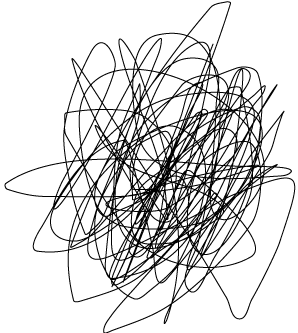
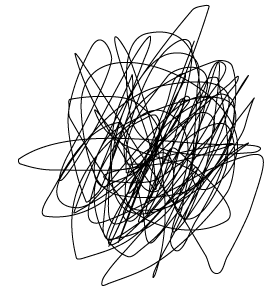
title page touchup

diff --git a/content/media/css/chapters/frontmatter.css b/content/media/css/chapters/frontmatter.css
@@ -79,7 +79,7 @@
   #titlepage .novel-title .wrap:after { content: ""; display: table; clear: both; } }
 @media (min-width: 960px) { #titlepage .novel-title .wrap { *zoom: 1; margin: auto; width: 38.5em; max-width: 100%; }
   #titlepage .novel-title .wrap:after { content: ""; display: table; clear: both; } }
-#titlepage .novel-title span { display: block; }
+#titlepage .novel-title span { -moz-transition: all 300ms; -webkit-transition: all 300ms; -o-transition: all 300ms; transition: all 300ms; display: block; }
 #titlepage .into { font-size: 1.25em; line-height: 1em; display: inline; float: left; margin-left: 7.317%; padding-left: 29.268%; margin-right: 0.2em; }
 #titlepage .the { font-size: 1.536em; line-height: 0.814em; display: inline; float: left; }
 #titlepage .green1 { font-size: 1.75em; line-height: 0.714em; clear: both; margin-left: 7.317%; margin-right: 7.317%; padding-right: 29.268%; text-align: center; }
@@ -89,20 +89,24 @@
 @media (min-width: 500px) { #titlepage .byline { clear: both; margin-left: 4.615%; margin-right: 4.615%; } }
 @media (min-width: 960px) { #titlepage .byline { clear: both; margin-left: 3.896%; margin-right: 3.896%; } }
 #titlepage .byline p { margin-bottom: 0em; }
-@media (min-height: 320px) { #titlepage { background-position: 130% 130%; }
-  #titlepage .novel-title { -moz-animation: line 75s infinite both; -webkit-animation: line 75s infinite both; -ms-animation: line 75s infinite both; animation: line 75s infinite both; padding-bottom: 1.25em; background-position: 0 center; }
+@media (min-height: 320px) { #titlepage { background: none; }
+  #titlepage .novel-title { -moz-animation: line 75s infinite both; -webkit-animation: line 75s infinite both; -ms-animation: line 75s infinite both; animation: line 75s infinite both; -moz-background-size: auto, 6.25em auto; -webkit-background-size: auto, 6.25em auto; -o-background-size: auto, 6.25em auto; background-size: auto, 6.25em auto; padding-bottom: 1.25em; background-image: url('../../images/frontmatter/titlepage/line.png?1327284513'), url('../../images/frontmatter/titlepage/scribble_sm.png?1327188026'); background-repeat: repeat-x, no-repeat; background-position: 0 center, center; }
   #titlepage .into { clear: both; margin-left: 7.317%; margin-right: 7.317%; padding-left: 29.268%; }
   #titlepage .the { clear: both; margin-left: 7.317%; margin-right: 7.317%; padding-left: 29.268%; display: inline; float: none; margin-left: 12.195%; }
-  #titlepage .green1 { margin-bottom: 1.786em; }
+  #titlepage .green1 { margin-bottom: 3.571em; }
   #titlepage .byline { position: absolute; left: 0; right: 0; bottom: 0.625em; }
   #titlepage .byline .wrap { *zoom: 1; margin: auto; width: 20.5em; max-width: 100%; }
   #titlepage .byline .wrap:after { content: ""; display: table; clear: both; } }
-@media (min-height: 480px) { #titlepage { background: none; }
-  #titlepage .novel-title { background-image: url('../../images/frontmatter/titlepage/line.png?1327284513'), url('../../images/frontmatter/titlepage/scribble.png?1327282965'); background-repeat: repeat-x, no-repeat; background-position: 0 center, center; }
-  #titlepage .green1 { margin-bottom: 6.429em; } }
-@media (min-width: 500px) { #titlepage .green2 { clear: both; margin-left: 4.615%; margin-right: 4.615%; padding-left: 55.385%; }
-  #titlepage .mud { clear: both; margin-left: 4.615%; margin-right: 4.615%; padding-left: 64.615%; } }
-@media (min-width: 960px) { #titlepage .green2 { clear: both; margin-left: 3.896%; margin-right: 3.896%; padding-left: 54.545%; }
+@media (min-width: 500px) { #titlepage .into { margin-left: 4.615%; padding-left: 36.923%; }
+  #titlepage .green1 { clear: both; margin-left: 4.615%; margin-right: 4.615%; padding-right: 18.462%; }
+  #titlepage .green2 { clear: both; margin-left: 4.615%; margin-right: 4.615%; padding-left: 46.154%; }
+  #titlepage .mud { clear: both; margin-left: 4.615%; margin-right: 4.615%; padding-left: 55.385%; } }
+@media (min-width: 500px) and (min-height: 320px) { #titlepage .novel-title { -moz-background-size: auto, 5em auto; -webkit-background-size: auto, 5em auto; -o-background-size: auto, 5em auto; background-size: auto, 5em auto; }
+  #titlepage .green1 { margin-bottom: 2.857em; }
+  #titlepage .the { padding-left: 36.923%; margin-left: 7.692%; } }
+@media (min-height: 480px) { #titlepage .novel-title { -moz-background-size: auto, 10em auto; -webkit-background-size: auto, 10em auto; -o-background-size: auto, 10em auto; background-size: auto, 10em auto; background-image: url('../../images/frontmatter/titlepage/line.png?1327284513'), url('../../images/frontmatter/titlepage/scribble.png?1327291925'); }
+  #titlepage .green1 { margin-bottom: 5.714em; } }
+@media (min-width: 960px) and (min-height: 480px) { #titlepage .green2 { clear: both; margin-left: 3.896%; margin-right: 3.896%; padding-left: 54.545%; }
   #titlepage .mud { clear: both; margin-left: 3.896%; margin-right: 3.896%; padding-left: 62.338%; } }
 
 @media (min-width: 500px) and (max-width: 959px) { #contents { font-size: 0.8em; line-height: 1.562em; } }

diff --git a/deploy/media/css/chapters/frontmatter.css b/deploy/media/css/chapters/frontmatter.css
@@ -79,7 +79,7 @@
   #titlepage .novel-title .wrap:after { content: ""; display: table; clear: both; } }
 @media (min-width: 960px) { #titlepage .novel-title .wrap { *zoom: 1; margin: auto; width: 38.5em; max-width: 100%; }
   #titlepage .novel-title .wrap:after { content: ""; display: table; clear: both; } }
-#titlepage .novel-title span { display: block; }
+#titlepage .novel-title span { -moz-transition: all 300ms; -webkit-transition: all 300ms; -o-transition: all 300ms; transition: all 300ms; display: block; }
 #titlepage .into { font-size: 1.25em; line-height: 1em; display: inline; float: left; margin-left: 7.317%; padding-left: 29.268%; margin-right: 0.2em; }
 #titlepage .the { font-size: 1.536em; line-height: 0.814em; display: inline; float: left; }
 #titlepage .green1 { font-size: 1.75em; line-height: 0.714em; clear: both; margin-left: 7.317%; margin-right: 7.317%; padding-right: 29.268%; text-align: center; }
@@ -89,20 +89,24 @@
 @media (min-width: 500px) { #titlepage .byline { clear: both; margin-left: 4.615%; margin-right: 4.615%; } }
 @media (min-width: 960px) { #titlepage .byline { clear: both; margin-left: 3.896%; margin-right: 3.896%; } }
 #titlepage .byline p { margin-bottom: 0em; }
-@media (min-height: 320px) { #titlepage { background-position: 130% 130%; }
-  #titlepage .novel-title { -moz-animation: line 75s infinite both; -webkit-animation: line 75s infinite both; -ms-animation: line 75s infinite both; animation: line 75s infinite both; padding-bottom: 1.25em; background-position: 0 center; }
+@media (min-height: 320px) { #titlepage { background: none; }
+  #titlepage .novel-title { -moz-animation: line 75s infinite both; -webkit-animation: line 75s infinite both; -ms-animation: line 75s infinite both; animation: line 75s infinite both; -moz-background-size: auto, 6.25em auto; -webkit-background-size: auto, 6.25em auto; -o-background-size: auto, 6.25em auto; background-size: auto, 6.25em auto; padding-bottom: 1.25em; background-image: url('../../images/frontmatter/titlepage/line.png?1327284513'), url('../../images/frontmatter/titlepage/scribble_sm.png?1327188026'); background-repeat: repeat-x, no-repeat; background-position: 0 center, center; }
   #titlepage .into { clear: both; margin-left: 7.317%; margin-right: 7.317%; padding-left: 29.268%; }
   #titlepage .the { clear: both; margin-left: 7.317%; margin-right: 7.317%; padding-left: 29.268%; display: inline; float: none; margin-left: 12.195%; }
-  #titlepage .green1 { margin-bottom: 1.786em; }
+  #titlepage .green1 { margin-bottom: 3.571em; }
   #titlepage .byline { position: absolute; left: 0; right: 0; bottom: 0.625em; }
   #titlepage .byline .wrap { *zoom: 1; margin: auto; width: 20.5em; max-width: 100%; }
   #titlepage .byline .wrap:after { content: ""; display: table; clear: both; } }
-@media (min-height: 480px) { #titlepage { background: none; }
-  #titlepage .novel-title { background-image: url('../../images/frontmatter/titlepage/line.png?1327284513'), url('../../images/frontmatter/titlepage/scribble.png?1327282965'); background-repeat: repeat-x, no-repeat; background-position: 0 center, center; }
-  #titlepage .green1 { margin-bottom: 6.429em; } }
-@media (min-width: 500px) { #titlepage .green2 { clear: both; margin-left: 4.615%; margin-right: 4.615%; padding-left: 55.385%; }
-  #titlepage .mud { clear: both; margin-left: 4.615%; margin-right: 4.615%; padding-left: 64.615%; } }
-@media (min-width: 960px) { #titlepage .green2 { clear: both; margin-left: 3.896%; margin-right: 3.896%; padding-left: 54.545%; }
+@media (min-width: 500px) { #titlepage .into { margin-left: 4.615%; padding-left: 36.923%; }
+  #titlepage .green1 { clear: both; margin-left: 4.615%; margin-right: 4.615%; padding-right: 18.462%; }
+  #titlepage .green2 { clear: both; margin-left: 4.615%; margin-right: 4.615%; padding-left: 46.154%; }
+  #titlepage .mud { clear: both; margin-left: 4.615%; margin-right: 4.615%; padding-left: 55.385%; } }
+@media (min-width: 500px) and (min-height: 320px) { #titlepage .novel-title { -moz-background-size: auto, 5em auto; -webkit-background-size: auto, 5em auto; -o-background-size: auto, 5em auto; background-size: auto, 5em auto; }
+  #titlepage .green1 { margin-bottom: 2.857em; }
+  #titlepage .the { padding-left: 36.923%; margin-left: 7.692%; } }
+@media (min-height: 480px) { #titlepage .novel-title { -moz-background-size: auto, 10em auto; -webkit-background-size: auto, 10em auto; -o-background-size: auto, 10em auto; background-size: auto, 10em auto; background-image: url('../../images/frontmatter/titlepage/line.png?1327284513'), url('../../images/frontmatter/titlepage/scribble.png?1327291925'); }
+  #titlepage .green1 { margin-bottom: 5.714em; } }
+@media (min-width: 960px) and (min-height: 480px) { #titlepage .green2 { clear: both; margin-left: 3.896%; margin-right: 3.896%; padding-left: 54.545%; }
   #titlepage .mud { clear: both; margin-left: 3.896%; margin-right: 3.896%; padding-left: 62.338%; } }
 
 @media (min-width: 500px) and (max-width: 959px) { #contents { font-size: 0.8em; line-height: 1.562em; } }

diff --git a/sass/chapters/frontmatter.sass b/sass/chapters/frontmatter.sass
@@ -48,6 +48,7 @@ $green2 : $green1 + 6px
       text-transform: lowercase
 
     span
+      +transition(all 300ms)
       display: block
 
   .into
@@ -79,12 +80,16 @@ $green2 : $green1 + 6px
       +trailer(0)
 
   +small(height)
-    background-position: 130% 130%
+    background: none
 
     .novel-title
       +animation(line 75s infinite both)
+      +background-size(auto, rhythm(floor(image-height($scribble-sm)/$medpx)) auto)
       +padding-trailer(1)
-      background-position: 0 center
+      background:
+        image: image-url($line), image-url($scribble-sm)
+        repeat: repeat-x, no-repeat
+        position: 0 center, center
 
     .into
       +full
@@ -95,7 +100,7 @@ $green2 : $green1 + 6px
       +float(none)
       margin-left: side-gutter() + gutter()*2
     .green1
-      +trailer(2.5,$green1)
+      +trailer(floor(image-height($scribble-sm)/$medpx),$green1)
 
     .byline
       +stretch-x
@@ -103,27 +108,40 @@ $green2 : $green1 + 6px
       .wrap
         +container
 
-  +medium(height)
-    background: none
-
-    .novel-title
-      background:
-        image: image-url($line), image-url($scribble)
-        repeat: repeat-x, no-repeat
-        position: 0 center, center
-
+  +small(width)
+    .into
+      +alpha
+      +prefix(4)
     .green1
-      +trailer(floor(image-height($scribble)/$base-line-height),$green1)
-
-  +small
+      +full
+      +suffix(2)
     .green2
       +full
-      +prefix(6)
+      +prefix(5)
     .mud
       +full
-      +prefix(7)
+      +prefix(6)
 
-  +medium
+  +small(both)
+    .novel-title
+      +background-size(auto, rhythm(floor(image-height($scribble-sm)/$medpx)) - rhythm(1) auto)
+
+    .green1
+      +trailer(floor(image-height($scribble-sm)/$medpx) - 1,$green1)
+
+    .the
+      +prefix(4)
+      margin-left: side-gutter() + gutter()*2
+
+  +medium(height)
+    .novel-title
+      +background-size(auto, rhythm(floor(image-height($scribble)/$medpx)) auto)
+      background-image: image-url($line), image-url($scribble)
+
+    .green1
+      +trailer(floor(image-height($scribble)/$medpx),$green1)
+
+  +medium(both)
     .green2
       +full
       +prefix(7)
